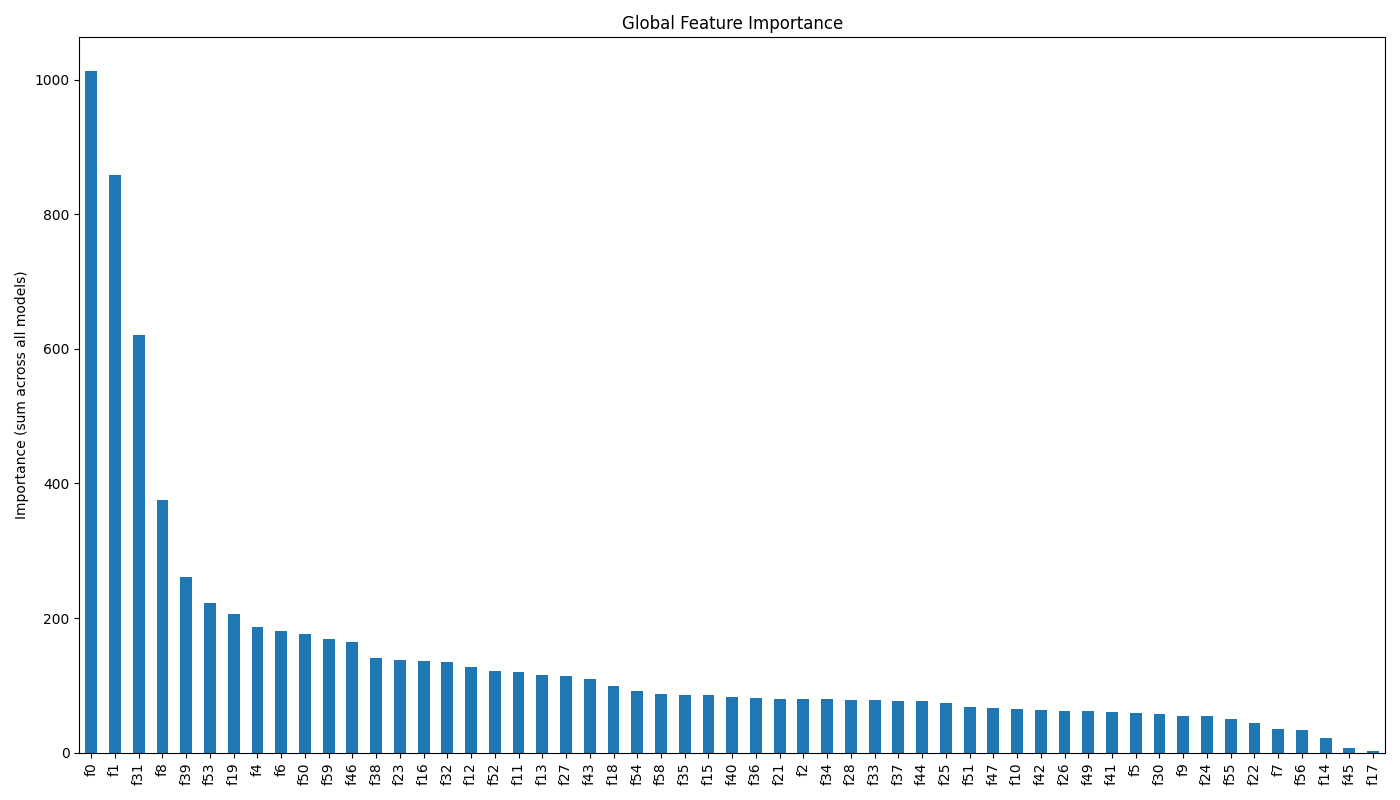
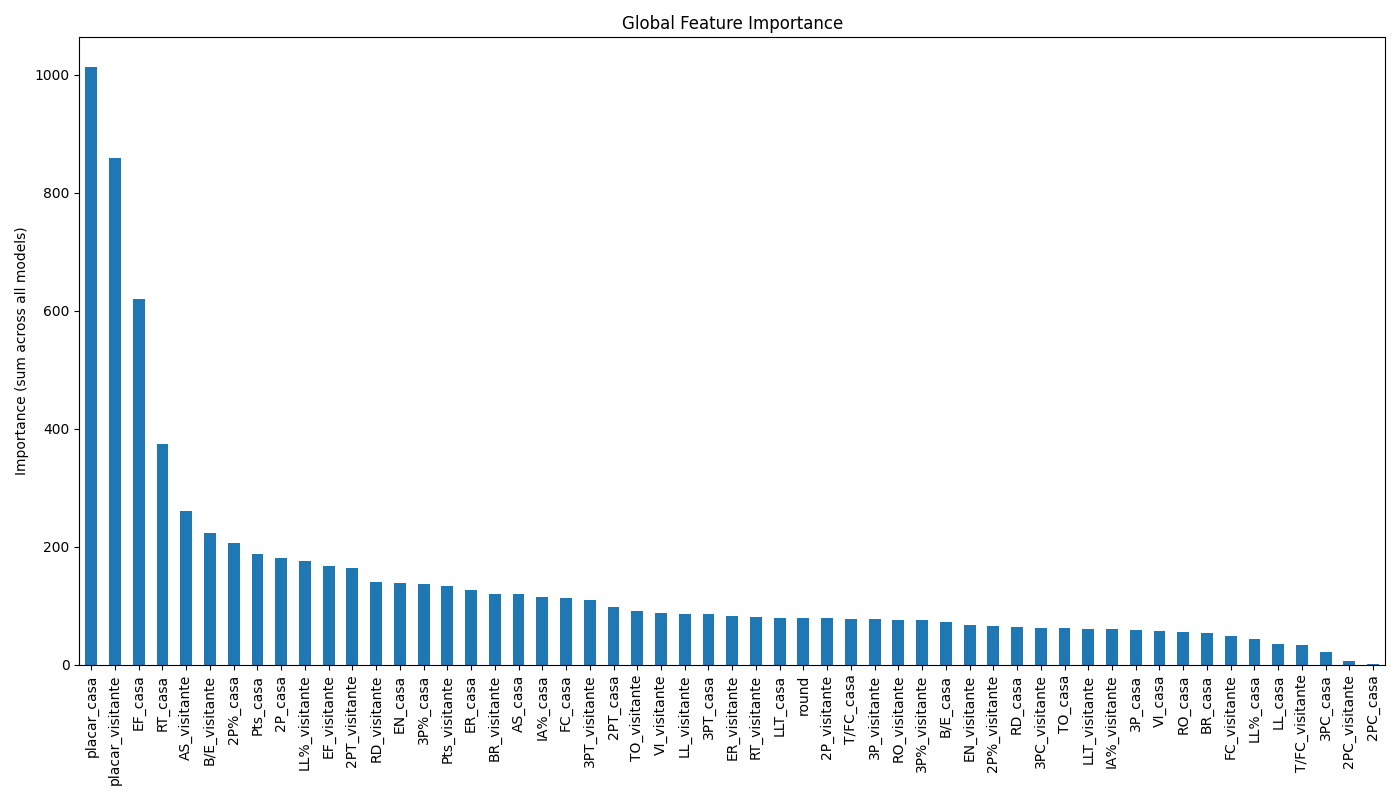
Selection features

diff --git a/scripts/experiment_02.py b/scripts/experiment_02.py
@@ -69,7 +69,19 @@ def run_models(data_dir):
     
     # 🔥 Depois que terminar todos os arquivos da season:
     if feature_importance_sum:
+        # Criando o DataFrame de importância
         importance_df = pd.DataFrame.from_dict(feature_importance_sum, orient='index', columns=['Importance'])
+
+        # Mapeando os nomes f0, f1, etc., para o nome real da feature
+        def map_feature_name(f):
+            # Extrai o número depois do "f" e converte para int
+            idx = int(f[1:])
+            return feature_names_dict.get(idx, f)  # Se não encontrar no dicionário, mantém o original
+
+        # Renomeando o índice
+        importance_df.index = importance_df.index.map(map_feature_name)
+
+        # Ordenando pela importância
         importance_df = importance_df.sort_values(by='Importance', ascending=False)
 
         # Salvando a importância global
@@ -77,7 +89,7 @@ def run_models(data_dir):
         os.makedirs(global_output_dir, exist_ok=True)
 
         importance_df.to_csv(os.path.join(global_output_dir, f'global_feature_importance.csv'))
-
+        
         # Plotando
         importance_df.plot(kind='bar', figsize=(14,8), legend=False, title="Global Feature Importance")
         plt.ylabel("Importance (sum across all models)")
